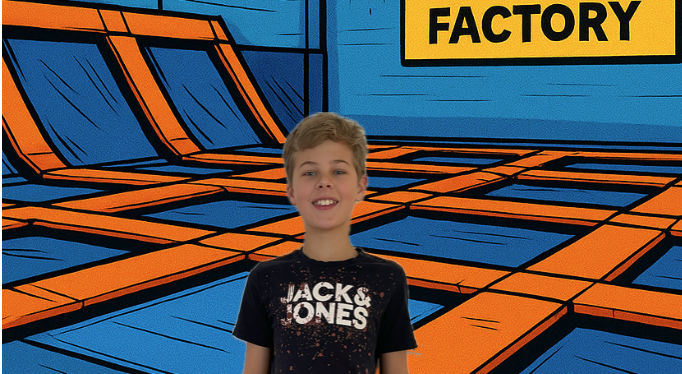
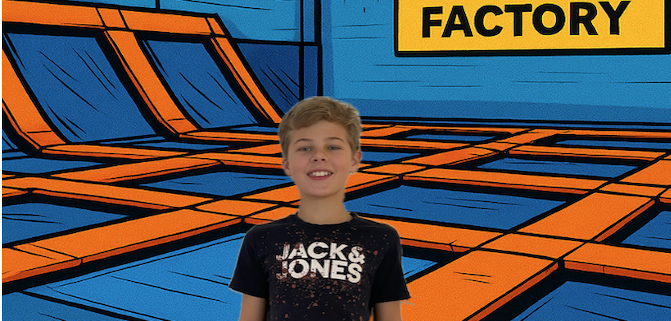
vorschau

diff --git a/index.html b/index.html
@@ -12,8 +12,8 @@
   <meta property="og:description" content="1. Nov, 14:00 · Jump Factory → Danach Party im Bodenweg 10 mit Kinofilm" />
   <meta property="og:type" content="website" />
 	<meta property="og:image" content="https://dajofischer.github.io/Einladung/share.png" />
-<meta property="og:image:width" content="682" />
-<meta property="og:image:height" content="374" />
+<meta property="og:image:width" content="671" />
+<meta property="og:image:height" content="321" />
 <meta property="og:image:alt" content="1. Nov, 14:00 · Jump Factory → Danach Party im Bodenweg 10 mit Kinofilm" />
 <meta name="twitter:card" content="summary_large_image" />
 <meta name="twitter:image" content="https://dajofischer.github.io/Einladung/share.png" />
